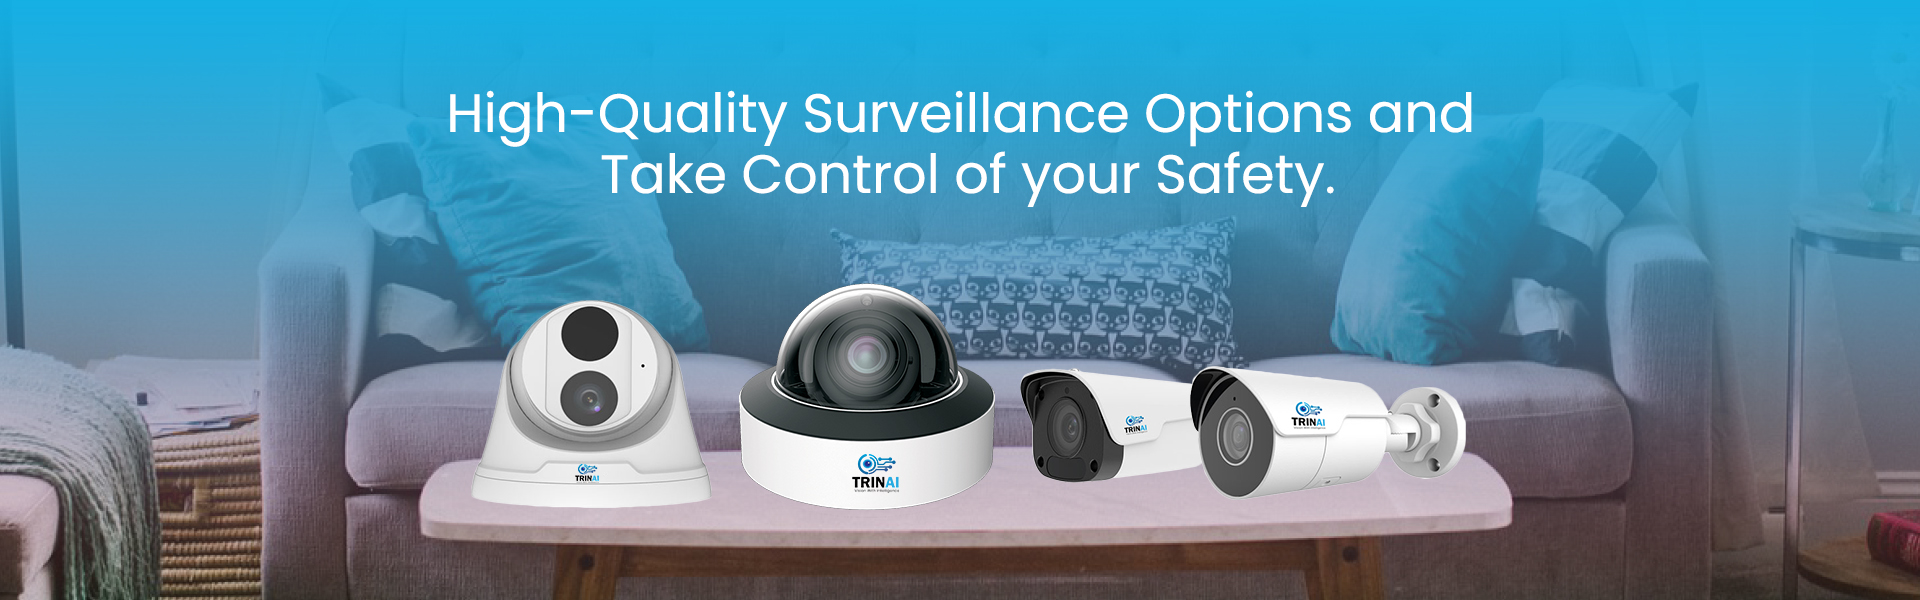
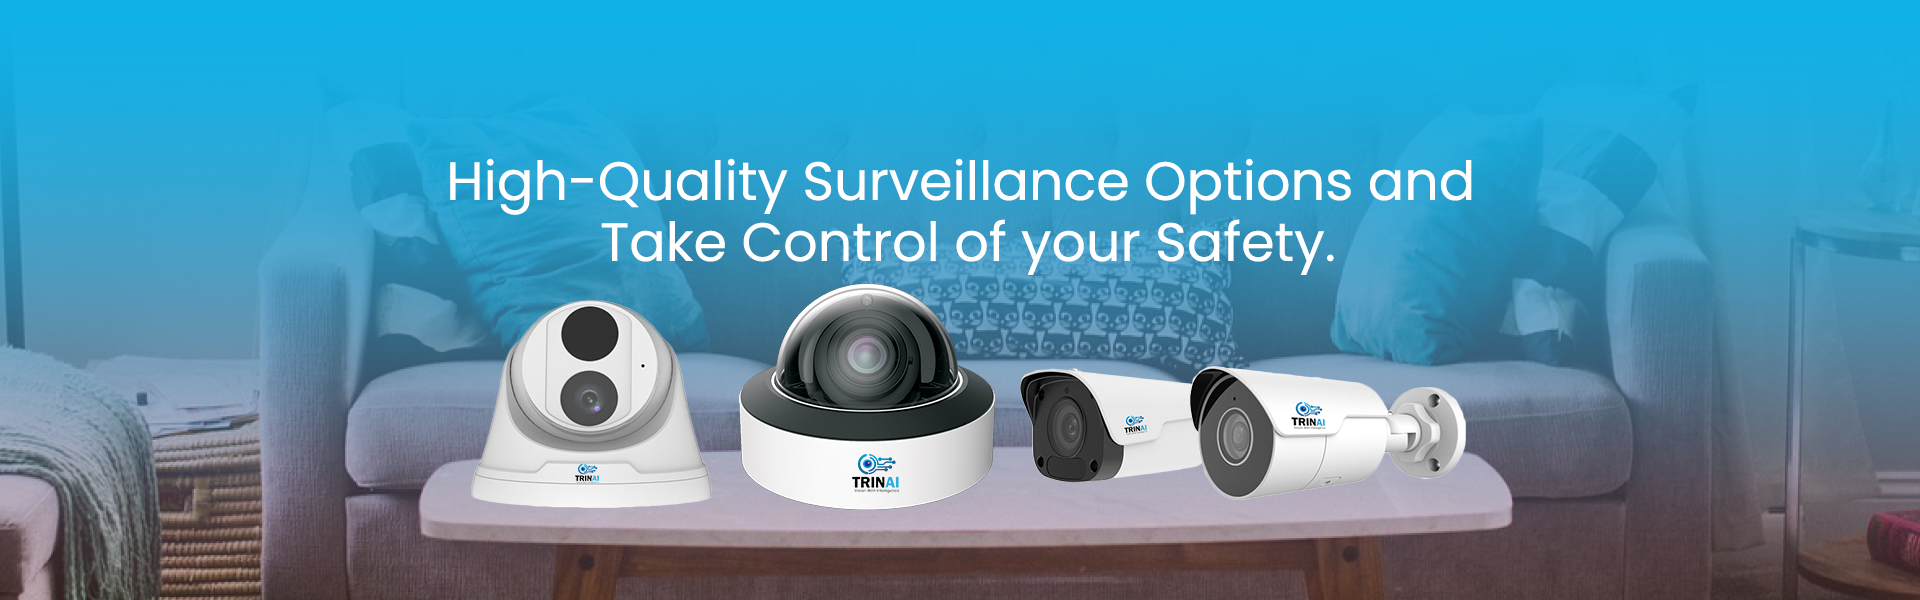
changing-header-hamb

diff --git a/src/components/Header/Header.jsx b/src/components/Header/Header.jsx
@@ -16,6 +16,7 @@ export const Header = () => {
   let [hover, setHover] = useState(false);
 
   const handleProductsClick = () => {
+    console.log("ghjk");
     setProductsDropdownVisibility(!isProductsDropdownVisible);
   };
 
@@ -33,6 +34,7 @@ export const Header = () => {
     setNotHover(hover);
   };
 
+  console.log(isProductsDropdownVisible);
   return (
     <div
       style={{
@@ -62,19 +64,19 @@ export const Header = () => {
               activeClassName="active"
               style={{
                 textDecoration: "none",
-                padding: "8px",
+                padding: "10px",
                 marginLeft: "20px",
               }}
               to="/Aboutus"
             >
               <span>About </span>
             </NavLink>
-            <div
-              style={{ padding: "10px" }}
-              className="header-dropdown"
-              onClick={handleProductsClick}
-            >
-              <span id="header-color" style={{ padding: "8px" }}>
+            <div style={{ padding: "10px" }} className="header-dropdown">
+              <span
+                onClick={handleProductsClick}
+                id="header-color"
+                style={{ padding: "10px" }}
+              >
                 Products
                 <IoIosArrowDown />
               </span>
@@ -220,7 +222,7 @@ export const Header = () => {
               style={{ textDecoration: "none", color: "black" }}
               to="/Aboutus"
             >
-              <span>About</span>
+              <span onClick={handleDisplay}>About</span>
             </Link>
             {/* <Link
                 style={{ textDecoration: "none" }}
@@ -232,42 +234,66 @@ export const Header = () => {
             {hover && (
               <div className="header-hover-display-list">
                 <Link
-                  style={{ textDecoration: "none" }}
+                  style={{ textDecoration: "none", color: "black" }}
                   to="/NetworkingCameras"
                 >
-                  <span>IP Cameras</span>{" "}
+                  <span onClick={handleDisplay}>IP Cameras</span>{" "}
                 </Link>
 
-                <Link style={{ textDecoration: "none" }} to="/NetworkingVideos">
-                  <span>NVRs </span>
+                <Link
+                  style={{ textDecoration: "none", color: "black" }}
+                  to="/NetworkingVideos"
+                >
+                  <span onClick={handleDisplay}>NVRs </span>
                 </Link>
 
-                <Link style={{ textDecoration: "none" }} to="/HDAnalog">
-                  <span>Analog Cameras </span>
+                <Link
+                  style={{ textDecoration: "none", color: "black" }}
+                  to="/HDAnalog"
+                >
+                  <span onClick={handleDisplay}>Analog Cameras </span>
                 </Link>
 
-                <Link style={{ textDecoration: "none" }} to="/HDdvrs">
-                  <span>DVRs </span>
+                <Link
+                  style={{ textDecoration: "none", color: "black" }}
+                  to="/HDdvrs"
+                >
+                  <span onClick={handleDisplay}>DVRs </span>
                 </Link>
 
-                <Link style={{ textDecoration: "none" }} to="/NetworkStorage">
-                  <span>Network Storage </span>
+                <Link
+                  style={{ textDecoration: "none", color: "black" }}
+                  to="/NetworkStorage"
+                >
+                  <span onClick={handleDisplay}>Network Storage </span>
                 </Link>
 
-                <Link style={{ textDecoration: "none" }} to="/Codec">
-                  <span>Switches </span>
+                <Link
+                  style={{ textDecoration: "none", color: "black" }}
+                  to="/Codec"
+                >
+                  <span onClick={handleDisplay}>Switches </span>
                 </Link>
 
-                <Link style={{ textDecoration: "none" }} to="/Accessories">
+                <Link
+                  style={{ textDecoration: "none", color: "black" }}
+                  to="/Accessories"
+                >
                   <span>Accessories </span>
                 </Link>
 
-                <Link style={{ textDecoration: "none" }} to="/ClientSoftware">
-                  <span>Client Software </span>
+                <Link
+                  style={{ textDecoration: "none", color: "black" }}
+                  to="/ClientSoftware"
+                >
+                  <span onClick={handleDisplay}>Client Software </span>
                 </Link>
 
-                <Link style={{ textDecoration: "none" }} to="/Others">
-                  <span>Others</span>
+                <Link
+                  style={{ textDecoration: "none", color: "black" }}
+                  to="/Others"
+                >
+                  <span onClick={handleDisplay}>Others</span>
                 </Link>
               </div>
             )}
@@ -275,7 +301,7 @@ export const Header = () => {
               style={{ textDecoration: "none", color: "black" }}
               to="/Support"
             >
-              <span>Solution</span>
+              <span onClick={handleDisplay}>Solution</span>
             </Link>
             <Link
               // id="header-color"
@@ -285,7 +311,7 @@ export const Header = () => {
               }}
               to="/News-Feed"
             >
-              <span> News&Events</span>
+              <span onClick={handleDisplay}> News&Events</span>
             </Link>
 
             <Link
@@ -296,10 +322,25 @@ export const Header = () => {
               }}
               to="/Support"
             >
-              <span> Support</span>
+              <span onClick={handleDisplay}> Support</span>
             </Link>
-            <span>My Account</span>
-            <span>Contact Us</span>
+            <Link
+              style={{ textDecoration: "none", color: "black" }}
+              to="/Loginpage"
+            >
+              <span onClick={handleDisplay}>Login </span>
+            </Link>
+            <NavLink
+              id="header-color"
+              style={{
+                textDecoration: "none",
+                color: "#232323",
+                padding: "8px",
+              }}
+              to="/Contactus"
+            >
+              <span onClick={handleDisplay}> Contact Us</span>
+            </NavLink>
           </div>
         )}
       </div>

diff --git a/src/components/Header/Header.css b/src/components/Header/Header.css
@@ -126,6 +126,12 @@
   background-color: rgb(0, 172, 252);
   border-radius: 2px;
 }
+/* .header-hover-display-list {
+  display: none;
+} */
+.header-hamb-content {
+  display: none;
+}
 
 @media (max-width: 768px) {
   .header-main-container {
@@ -140,6 +146,7 @@
   .header-hamb-icon {
     display: flex;
     flex-direction: column;
+    text-align: center;
     /* margin-left: 20px; */
     z-index: 999;
   }
@@ -148,6 +155,7 @@
     flex-direction: column;
     justify-content: center;
     align-items: center;
+    text-align: center;
     /* height: auto; */
     z-index: 999;
     /* margin-top: 100px; */
@@ -162,7 +170,9 @@
     cursor: pointer;
     /* color: #fff; */
     /* border: 1px solid red; */
+    /* background-color: rgb(0, 172, 252); */
   }
+
   #products-hover {
     position: relative;
   }
@@ -172,7 +182,9 @@
     flex-direction: row;
     flex-wrap: wrap;
     /* border: 0.1px solid grey; */
+    border: 1px solid red;
     line-height: 12px;
+    /* background-color: rgb(0, 172, 252); */
   }
   /* .header-hover-display-list:hover {
     background-color: #08ceff;

diff --git a/src/components/Footer/Footer.jsx b/src/components/Footer/Footer.jsx
@@ -90,19 +90,19 @@ export const Footer = () => {
             </div>
           </div>
         </div>
-        {/* <div className="copy-right-container">
-          <span>
-            Copyright © 2024 Trinai. All Rights Reserved, Site by{" "}
-            <a
-              target="_blank"
-              rel="noreferrer"
-              style={{ color: "rgb(177, 171, 171)" }}
-              href="https://www.brihaspathi.com/"
-            >
-              Brihaspathi Technologies Pvt Ltd
-            </a>
-          </span>
-        </div> */}
+      </div>
+      <div className="copy-right-container">
+        <span>
+          Copyright © 2024 Trinai. All Rights Reserved, Site by{" "}
+          <a
+            target="_blank"
+            rel="noreferrer"
+            style={{ color: "rgb(177, 171, 171)" }}
+            href="https://www.brihaspathi.com/"
+          >
+            Brihaspathi Technologies Pvt Ltd
+          </a>
+        </span>
       </div>
     </div>
   );

diff --git a/src/components/Footer/Footer.css b/src/components/Footer/Footer.css
@@ -9,8 +9,7 @@
   margin-top: 50px;
   color: rgba(255, 255, 255, 0.822);
   background-color: rgba(0, 0, 0, 0.836);
-  box-shadow: rgba(60, 64, 67, 0.3) 0px 1px 2px 0px,
-    rgba(60, 64, 67, 0.15) 0px 1px 3px 1px;
+
   padding: 10px;
   position: relative;
   /* border: 1px solid red; */
@@ -115,12 +114,17 @@ h2:hover {
   /* color: red; */
 }
 .copy-right-container {
-  position: absolute;
-  top: 90%;
-  left: 35%;
   color: rgb(177, 171, 171);
-  font-weight: 200;
-  /* border: 2px solid red; */
+  /* font-weight: 200; */
+  display: flex;
+  flex-direction: column;
+  justify-content: center;
+  align-items: center;
+  /* border: 1px solid red; */
+  font-weight: 100;
+  font-size: 12px;
+  background-color: rgba(0, 0, 0, 0.836);
+  padding-bottom: 12px;
 }
 @media (max-width: 768px) {
   .footer-full {

diff --git a/public/index.html b/public/index.html
@@ -2,14 +2,14 @@
 <html lang="en">
   <head>
     <meta charset="utf-8" />
-    <link rel="icon" href="%PUBLIC_URL%/favicon.ico" />
+    <link rel="icon" href="Images/trinai.png" />
     <meta name="viewport" content="width=device-width, initial-scale=1" />
     <meta name="theme-color" content="#000000" />
     <meta
       name="description"
       content="Web site created using create-react-app"
     />
-    <link rel="apple-touch-icon" href="%PUBLIC_URL%/logo192.png" />
+    <!-- <link rel="apple-touch-icon" href="%PUBLIC_URL%/logo192.png" /> -->
     <!--
       manifest.json provides metadata used when your web app is installed on a
       user's mobile device or desktop. See https://developers.google.com/web/fundamentals/web-app-manifest/

diff --git a/src/components/MointorEveryMoment/MointorEveryMoment.css b/src/components/MointorEveryMoment/MointorEveryMoment.css
@@ -2,7 +2,7 @@
   background-image: url("D:/projects/trinai/public/Images/banner 1.jpg");
   background-size: cover;
   width: 100%;
-  height: 450px;
+  height: 90vh;
   display: flex;
   flex-direction: column;
   justify-content: center;
@@ -11,7 +11,7 @@
 .monitor-back-page {
   width: 450px;
   gap: 2rem;
-  /* height: 550px; */
+  height: 80%;
   background-color: rgb(255, 255, 255);
   display: flex;
   flex-direction: column;

diff --git a/src/components/Courosual/Courosual.css b/src/components/Courosual/Courosual.css
@@ -4,10 +4,11 @@
   align-items: center;
   width: 100%;
   height: 90vh;
+  overflow: hidden;
 }
 .carousel-container {
   width: 100%;
-  height: 85vh;
+  height: 90vh;
 }
 
 @media (max-width: 768px) {

diff --git a/src/components/Aboutus/Aboutus.css b/src/components/Aboutus/Aboutus.css
@@ -21,6 +21,7 @@
 }
 .aboutus-midd-img {
   width: 100%;
+  height: 70vh;
   /* border: 1px solid red; */
 }
 .about-side-midd {
